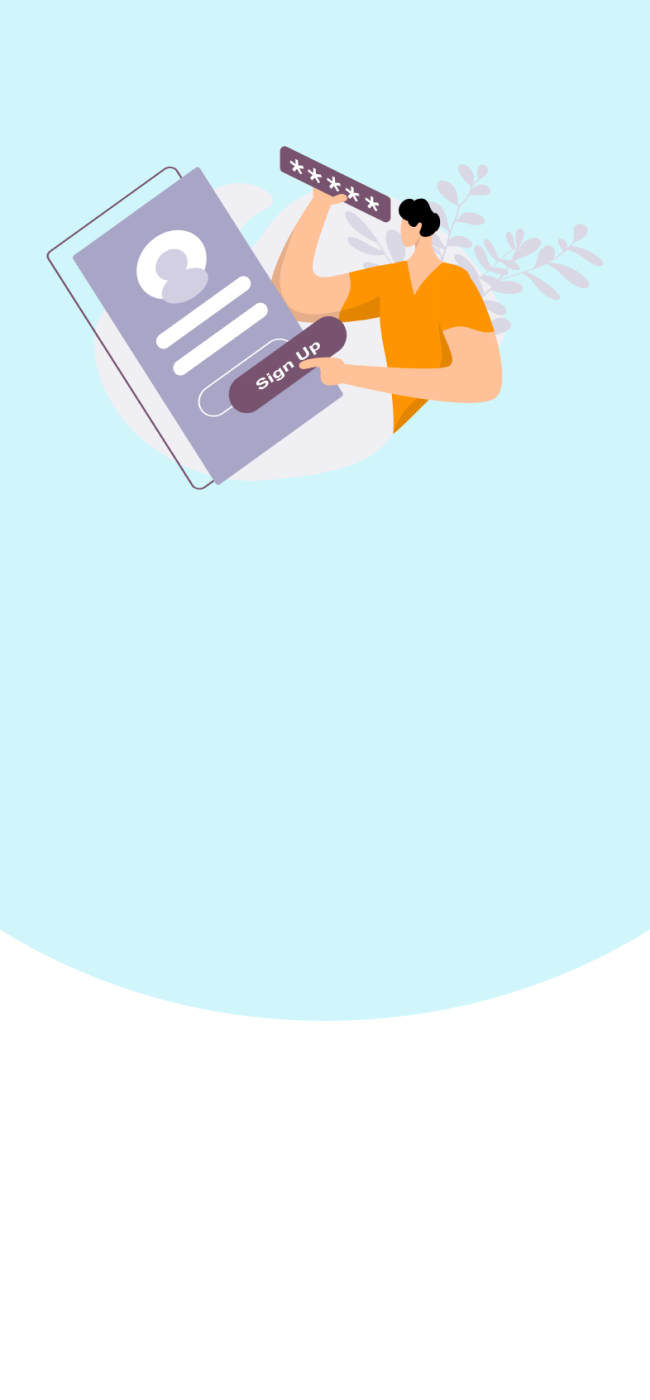
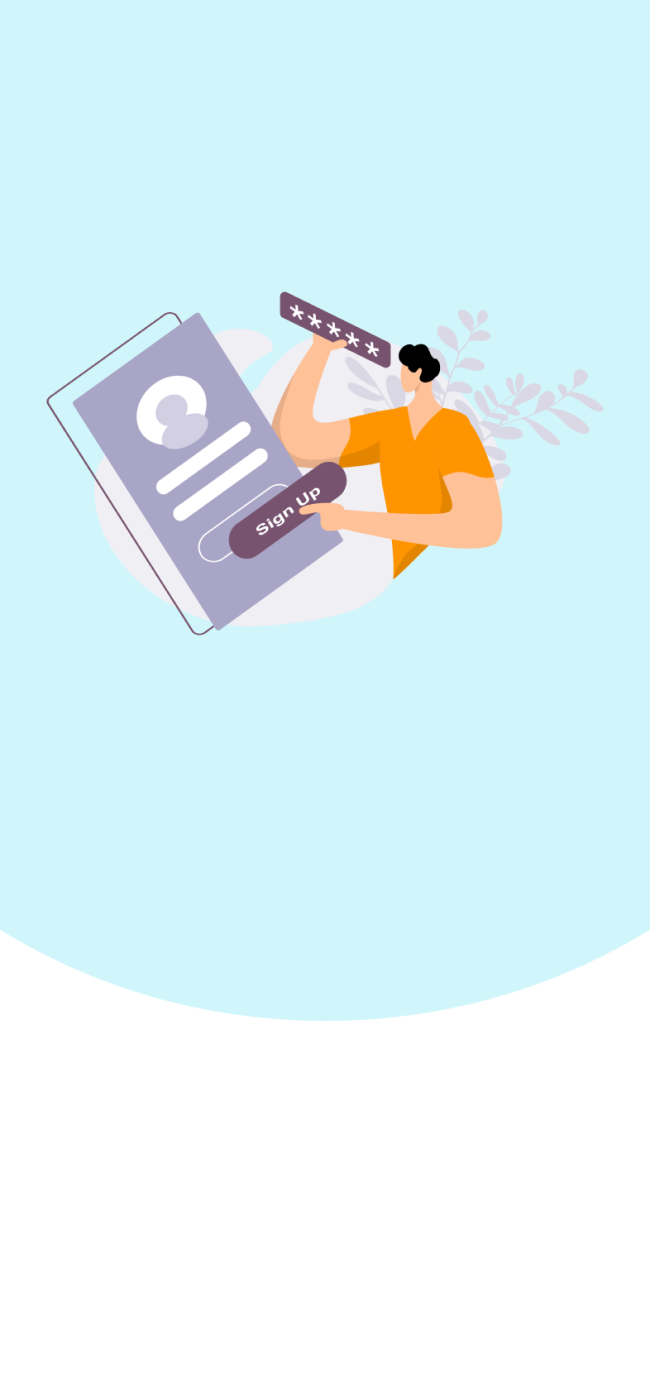
finished ui sign up / sign in

Changed region(s): [[0.0615, 0.0921, 0.9231, 0.4607]]

diff --git a/screens/LoginAndRegister.js b/screens/LoginAndRegister.js
@@ -16,44 +16,80 @@ import { cardShadow } from '../assets/styling/Shadows';
 import { useNavigation } from '@react-navigation/native';
 import SignUpForm from '../components/forms/SignUpForm';
 
+// Firebase
+import auth from '@react-native-firebase/auth';
+
+// Redux
+import { useSelector } from 'react-redux';
+import { selectUserData } from '../redux/features/userSlice';
+
 const screenHeight = Dimensions.get('screen').height
 
 const LoginAndRegister = ({ text, route }) => {
-  const[type, setType] = useState(route.params.type)
+  const[type, setType] = useState(route.params.type);
+  const[name, setName] = useState('');
+  const[email, setEmail] = useState('');
+  const[password, setPassword] = useState('');
+
+  const user = useSelector(selectUserData);
+
   const navigation = useNavigation()
   const popupAnim = useRef(new Animated.Value(-250)).current
+
+  useEffect(() => {
+    triggerAnimation()
+  }, [popupAnim]);
+
+  const triggerAnimation = () =>{
+    popupAnim.setValue(-400)
+    Animated.timing(popupAnim, {
+      toValue: -60,
+      duration: 1500,
+      useNativeDriver: false,
+    }).start()
+  }
 
   const goToHomeScreen = () =>{
     navigation.navigate("Home")
   }
 
-  useEffect(() => {
-    Animated.timing(popupAnim, {
-      toValue: -60,
-      duration: 1000,
-      useNativeDriver: false,
-    }).start();
-  }, [popupAnim]);
-
   const showLogin = () =>{
     setType('login')
-    popupAnim.setValue(-450)
-    Animated.timing(popupAnim, {
-      toValue: -60,
-      duration: 1500,
-      useNativeDriver: false,
-    }).start()
+    triggerAnimation()
   }
 
   const showSignUp = () =>{
     setType('sign up')
-    popupAnim.setValue(-450)
-    Animated.timing(popupAnim, {
-      toValue: -60,
-      duration: 1500,
-      useNativeDriver: false,
-    }).start()
+    triggerAnimation()
   }
+
+  const createUser = () =>{
+
+    console.log(user)
+
+    // auth()
+    //   .createUserWithEmailAndPassword(email, password)
+    //   .then(() => {
+    //     alert('User account created & signed in!');
+    //   })
+    //   .catch(error => {
+    //     if (error.code === 'auth/email-already-in-use') {
+    //       console.log('That email address is already in use!');
+    //     }
+    
+    //     if (error.code === 'auth/invalid-email') {
+    //       console.log('That email address is invalid!');
+    //     }
+    
+    //     console.error(error);
+    //   });
+
+  }
+
+  const login = () =>{
+
+  }
+
 
 
 
@@ -73,7 +109,7 @@ const LoginAndRegister = ({ text, route }) => {
 
               < SignUpForm type={type} />
               
-              <DefaultButton text={'Sign in'} func={goToHomeScreen} />
+              <DefaultButton text={'Sign in'} func={createUser} />
 
               <AppText style={styles.loginText}>
                 Dont have an account ? 
@@ -86,14 +122,18 @@ const LoginAndRegister = ({ text, route }) => {
               <AppText style={styles.headerText}>
                 Sign up
               </AppText>
-              < SignUpForm type={type} />
-              <DefaultButton text={'Sign up'} func={goToHomeScreen} />
+
+              <SignUpForm type={type} />
+
+              <DefaultButton text={'Sign up'} func={createUser} />
+
               <AppText style={styles.loginText}>
                 Have an account already ? 
                 <TouchableOpacity style={styles.loginButton} onPress={showLogin}>
                   <Text style={styles.loginButtonText} >Login</Text>
                 </TouchableOpacity>
               </AppText>
+
             </> 
             }
             

diff --git a/components/inputs/TextInputDef.js b/components/inputs/TextInputDef.js
@@ -1,11 +1,22 @@
 import { StyleSheet, Text, View, TextInput } from 'react-native';
 import React from 'react';
+
+// Style
+import { defaultColors } from '../../assets/styling/defaultColors';
+
+// Components
 import EmailIcon from '../icons/EmailIcon';
 import LockIcon from '../icons/LockIcon';
 import UserIcon from '../icons/UserIcon';
-import { defaultColors } from '../../assets/styling/defaultColors';
+
+// Redux 
+import { useDispatch } from 'react-redux';
+import { addEmail, addFullName, addPassword } from '../../redux/features/userSlice';
+
 
 const TextInputDef = ({ text, func, iconName }) => {
+
+  const dispatch = useDispatch();
 
   let icon; 
   if (iconName === 'user'){
@@ -14,6 +25,17 @@ const TextInputDef = ({ text, func, iconName }) => {
     icon = <LockIcon />
   }else if ( iconName === 'email'){
     icon = <EmailIcon />
+  }
+
+  const addInputData = (text) =>{
+
+    if (iconName === 'user'){
+      dispatch(addFullName(text))
+    } else if (iconName === 'password'){
+      dispatch(addPassword(text))
+    }else if ( iconName === 'email'){
+      dispatch(addEmail(text))
+    }
   }
 
 
@@ -29,7 +51,7 @@ const TextInputDef = ({ text, func, iconName }) => {
           placeholder={text}
           keyboardType='default' 
           style={styles.textInput}
-          onChaneText={func}
+          onChangeText={text => addInputData(text)}
         />
       
       </View>

diff --git a/redux/features/userSlice.js b/redux/features/userSlice.js
@@ -1,0 +1,32 @@
+import { createSlice } from '@reduxjs/toolkit' ;
+
+const initialState = {
+  user: {
+    fullName:'',
+    email:'',
+    password:''
+  },
+}
+
+export const userSlice = createSlice({
+  name: 'user',
+  initialState,
+  reducers: {
+    addFullName: (state, action) => {
+      state.user.fullName = action.payload
+    },
+    addEmail: (state, action) => {
+      state.user.email = action.payload
+    },
+    addPassword: (state, action) => {
+      state.user.password = action.payload
+    },
+  },
+})
+
+// Action creators are generated for each case reducer function
+export const { addFullName, addEmail, addPassword } = userSlice.actions ;
+
+export const selectUserData = (state) => state.user ;
+
+export default userSlice.reducer ;

diff --git a/redux/store.js b/redux/store.js
@@ -1,8 +1,10 @@
 import { configureStore } from '@reduxjs/toolkit';
 import basketReducer from './features/basketSlice';
+import userReducer from './features/userSlice';
 
 export default configureStore({
   reducer: {
-    basket: basketReducer
+    basket: basketReducer, 
+    user: userReducer
   },
 })

diff --git a/components/forms/SignUpForm.js b/components/forms/SignUpForm.js
@@ -3,7 +3,6 @@ import React from 'react'
 import TextInputDef from '../inputs/TextInputDef'
 
 const SignUpForm = ({ type }) => {
-
   
   return (
     <View style={styles.container}>
